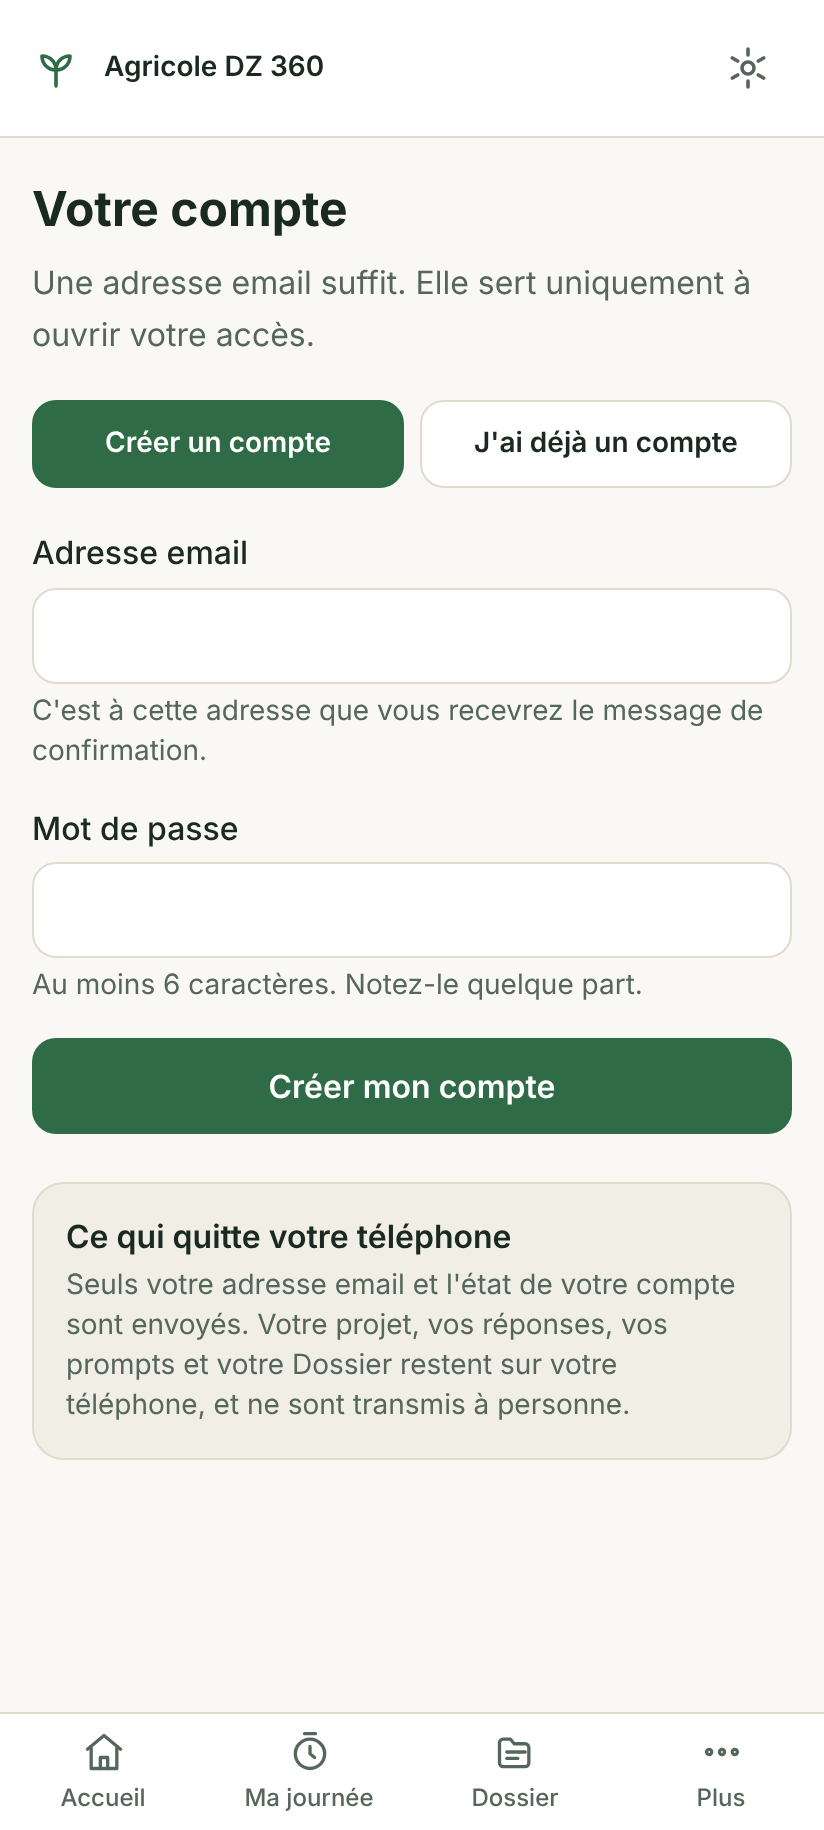
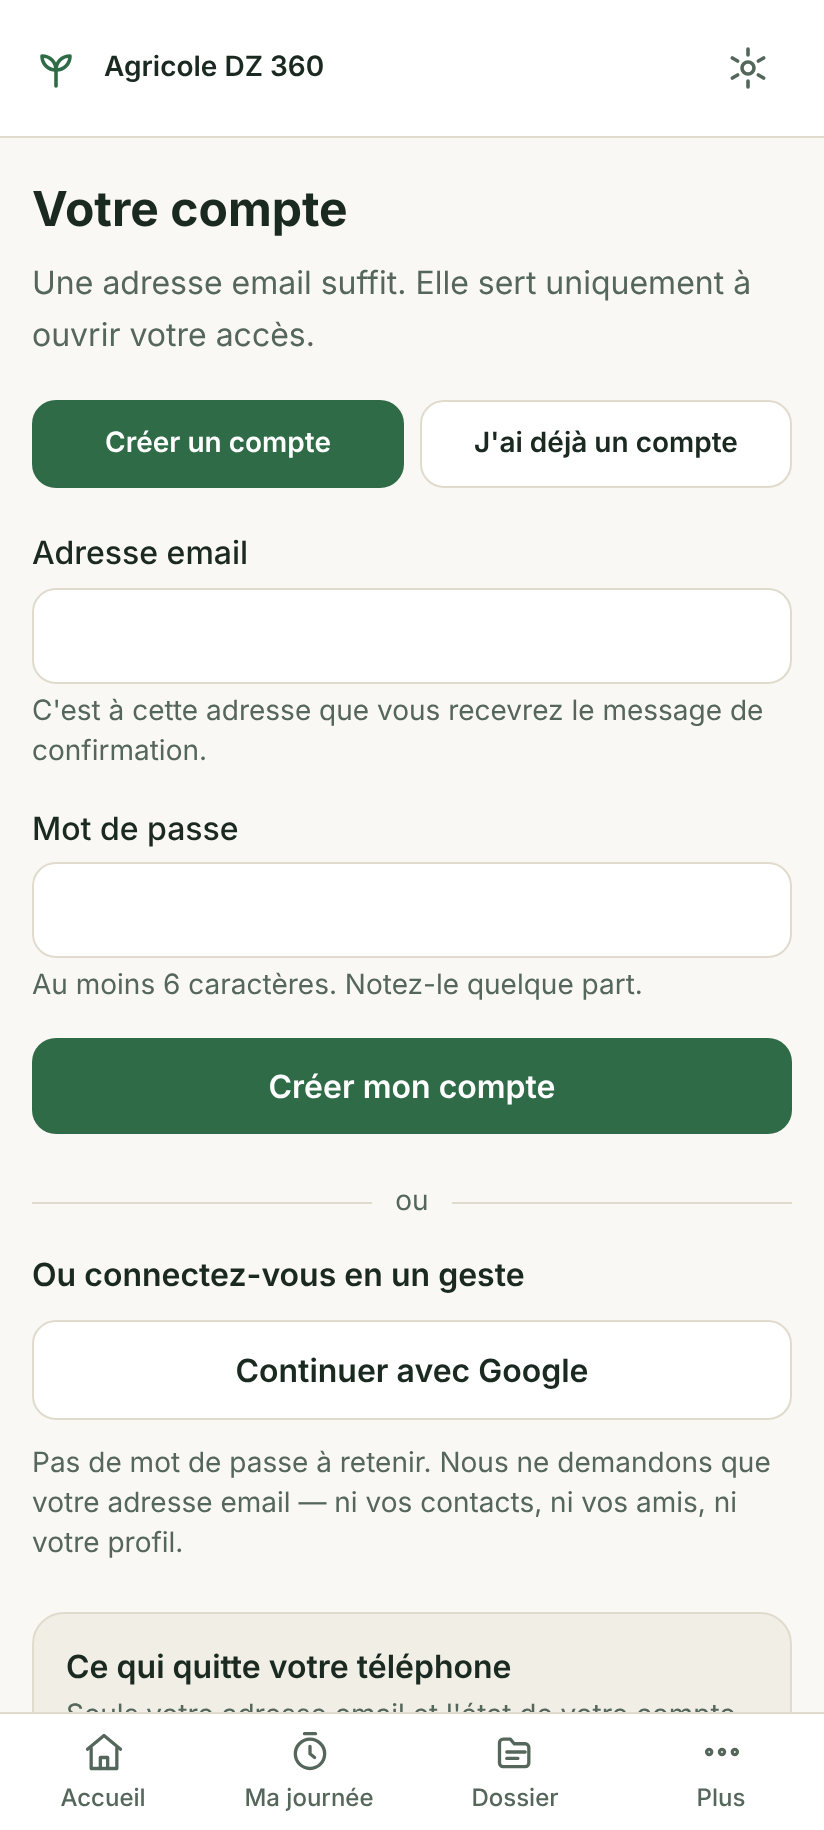
test(apk): éprouver que la déclaration des fournisseurs traverse la chaîne
Les tests unitaires couvrent la règle, pas le trajet. Sans téléphone,
`apk:verifier` est la seule façon de vérifier que VITE_FOURNISSEURS_APK
franchit réellement le define de Vite, `cap sync` et les fichiers servis :
une faute de frappe sur le nom de la variable côté workflow aurait
rétabli en silence l'absence de bouton d'avant la phase 16 (D131).

Contre-épreuve faite : un build sans la variable, contrôlé avec elle,
échoue en nommant le bouton manquant. Le workflow refuse en outre une
déclaration vide alors que la configuration Firebase est déposée.

Claude-Session: https://claude.ai/code/session_01JY3hzRTHtEXre4QD2xiYnf

Changed region(s): [[0.0303, 0.6541, 0.9709, 0.8721], [0.0607, 0.9033, 0.6371, 0.9344]]

diff --git a/CLAUDE.md b/CLAUDE.md
@@ -251,6 +251,7 @@ en FR, AR/RTL et thème sombre, clavier, cibles tactiles, hors ligne) : voir
 | D128 | **`firebase` rétrogradé de 13.4 à 12.19** | 2026-11-22 | choix de l'utilisateur du projet entre trois options. Le plugin déclare `firebase: ^12.6.0` en dépendance de pair ; garder la 13 imposait d'affaiblir la résolution des dépendances du dépôt. Le typecheck passe contre la 12 — donc aucune API utilisée n'a disparu — et les 795 tests aussi. Mais les tests n'atteignent jamais le vrai service Firebase (D59) : le chemin réseau réel ne sera éprouvé que sur un téléphone |
 | D129 | Le pont natif est **déclaré par `registerPlugin`**, au lieu d'importer le point d'entrée JS du plugin | 2026-11-22 | défaut réel, attrapé par le build : importer `@capacitor-firebase/authentication` fait entrer son implémentation **web**, qui importe `firebase/auth` en dépendance de pair *optionnelle*. npm garde `firebase` dans `apps/agri28/node_modules` alors que le plugin est à la racine du monorepo, donc Vite ne le résout pas depuis le plugin et le remplace par un bouchon vide : **44 exports manquants**, build cassé. Régénérer le verrou n'a rien changé, npm maintenant l'imbrication. Or cette implémentation web ne sert à rien — le web garde la fenêtre du navigateur. `registerPlugin` sans implémentation web déclare exactement ce dont l'APK a besoin, le paquet npm restant installé pour que `cap sync` embarque le code Android. Les types viennent du paquet et sont effacés à la compilation |
 | D130 | `GOOGLE_SERVICES_JSON` est un secret **obligatoire** du workflow APK ; sans lui le build **échoue** | 2026-11-22 | vérifié dans le source du plugin : `load()` appelle `FirebaseAuth.getInstance()` au démarrage du pont Capacitor, donc avant toute action de l'utilisateur. Sans `google-services.json`, cet appel lève une exception et l'application plante **au lancement**. Un APK livré ainsi serait inutilisable : mieux vaut un build qui échoue avec un message qui nomme le secret et renvoie à `docs/APK.md`. Le workflow contrôle en outre que le fichier est du JSON valide, parce qu'un collage tronqué casserait Gradle plus loin, avec un message qui ne désignerait pas la cause |
+| D131 | `apk:verifier` contrôle en plus que les **boutons de fournisseur suivent ce que le build a déclaré** | 2026-11-22 | sans téléphone, c'est la seule façon d'éprouver que `VITE_FOURNISSEURS_APK` traverse toute la chaîne — define de Vite, `cap sync`, fichiers servis. Les tests unitaires couvrent la règle, pas le trajet : une faute de frappe sur le nom de la variable côté workflow aurait rétabli en silence l'absence de bouton d'avant la phase 16. Contre-épreuve faite — un build sans la variable, contrôlé avec elle, échoue en nommant le bouton manquant — et le workflow refuse en plus une déclaration vide |
 
 ### Questions ouvertes
 *Aucune pour l'instant.*
@@ -305,7 +306,8 @@ npm run variantes:valider -- --jours 21 --type apiculture
 Dans `apps/agri28` uniquement : `npm run icons` (régénère les icônes PWA),
 `npm run screenshots` (régénère les captures du README, `preview` devant tourner),
 `npm run icons:android` (icônes et écran de démarrage Android),
-`npm run apk:verifier` (sert les fichiers comme Capacitor et contrôle le comportement),
+`npm run apk:verifier` (sert les fichiers comme Capacitor et contrôle le comportement,
+boutons de fournisseur compris — le déclarer : `VITE_FOURNISSEURS_APK=google npm run apk:web`),
 `npm run format` / `npm run format:check`.
 
 L'APK lui-même est assemblé par le workflow **APK** de GitHub Actions : voir
